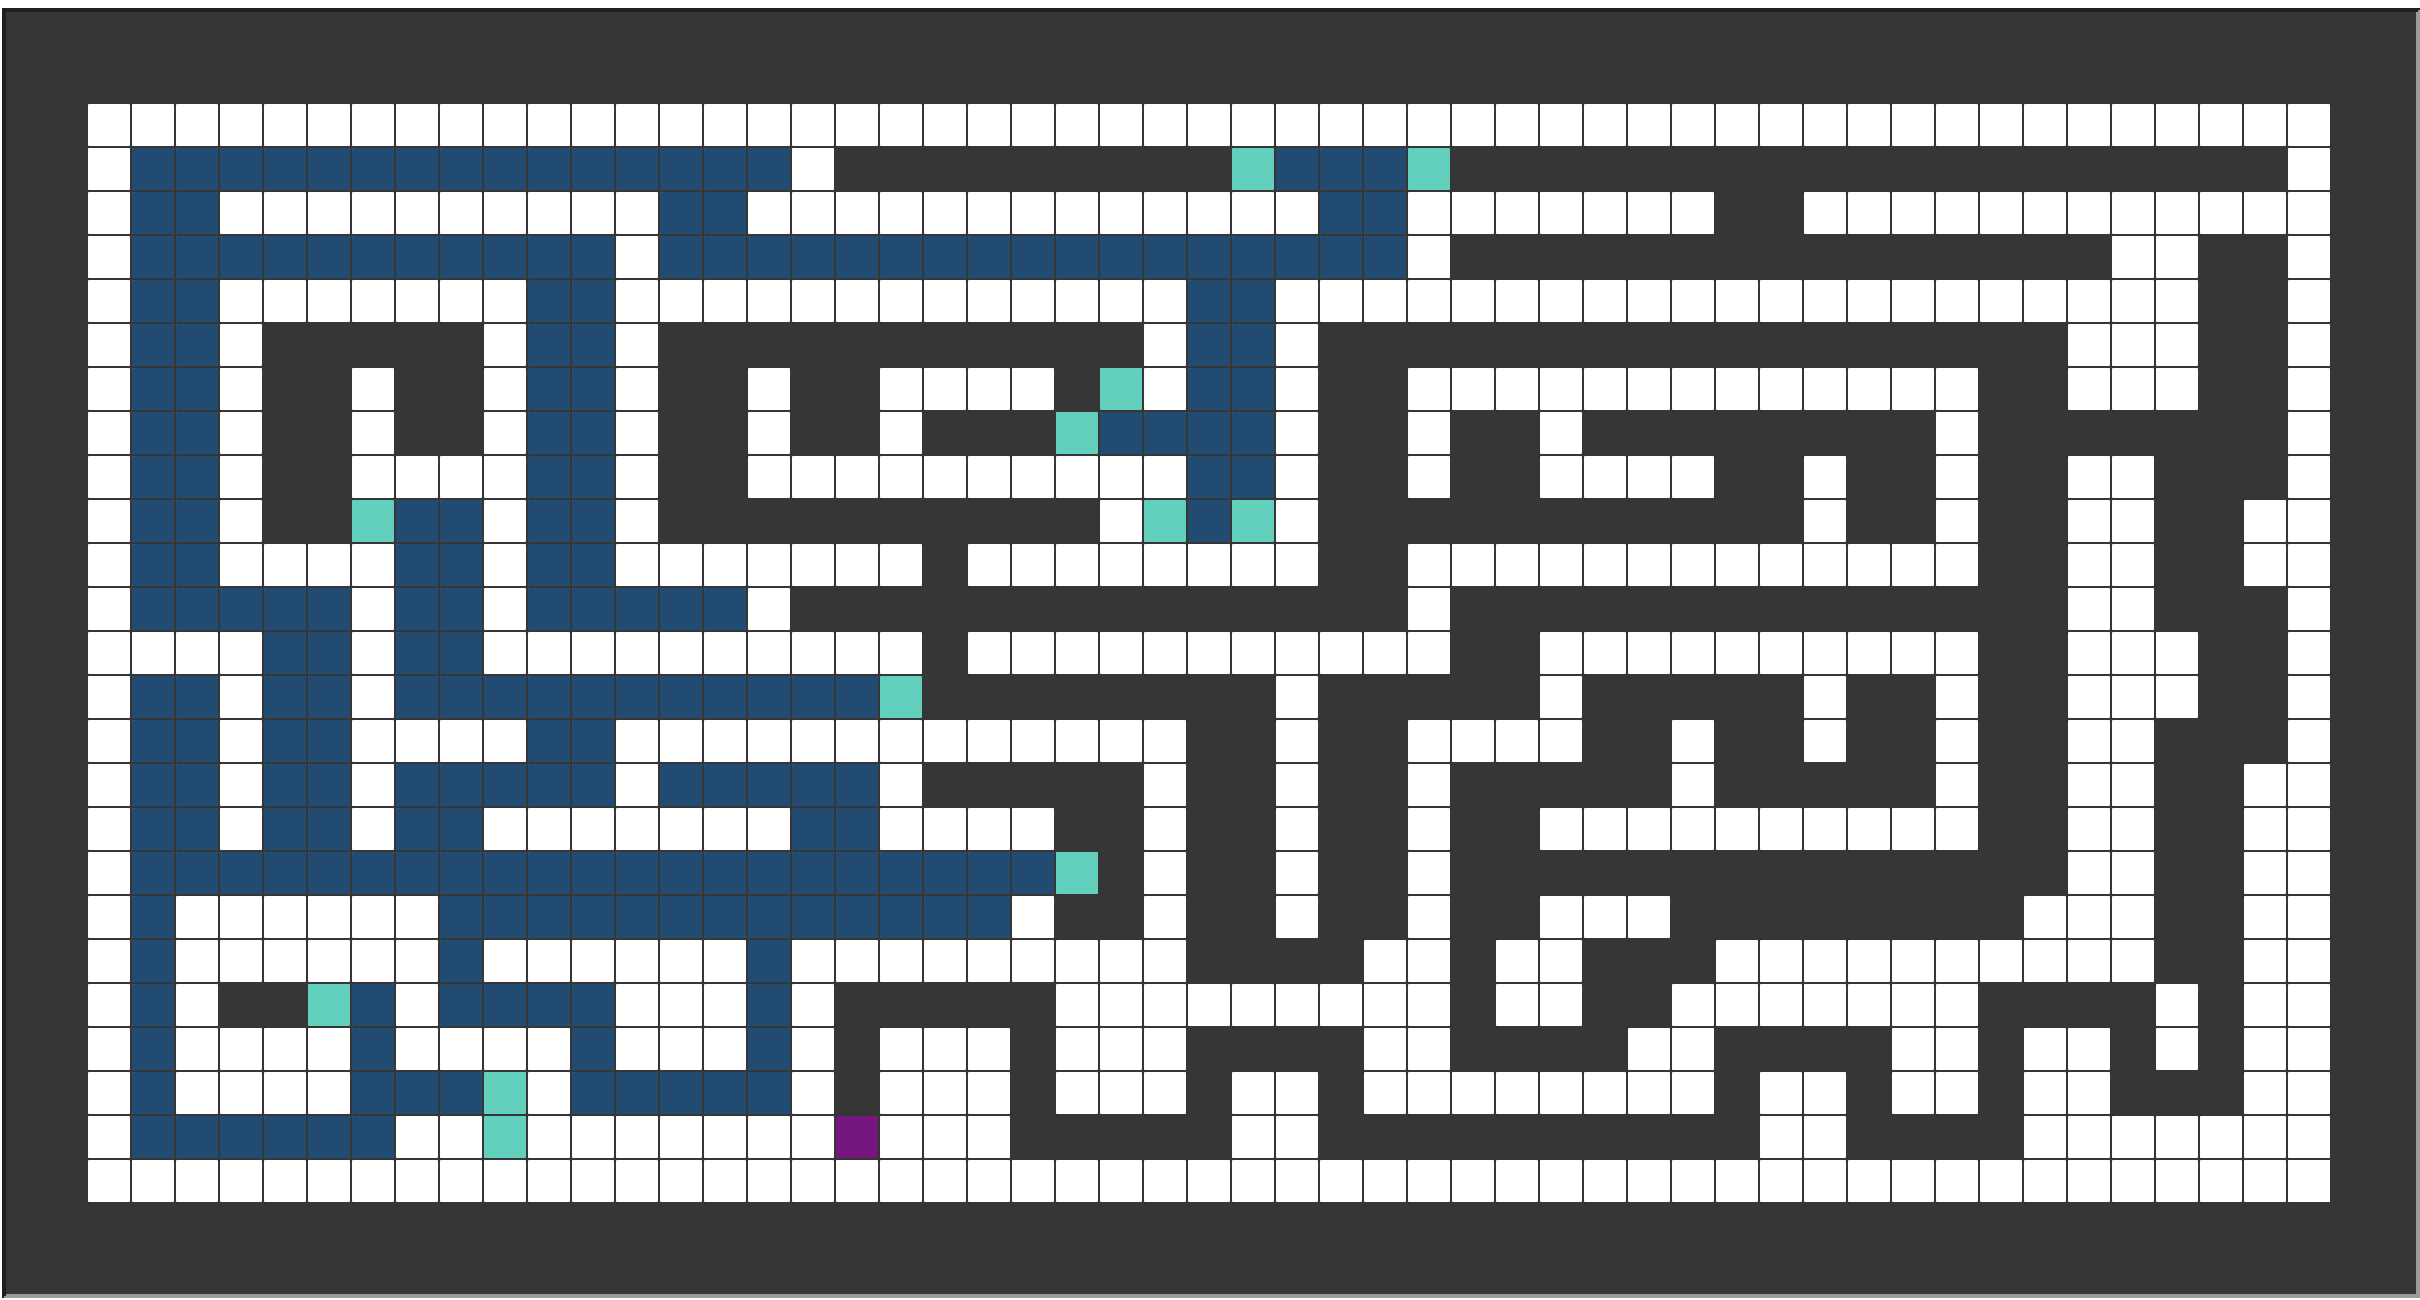
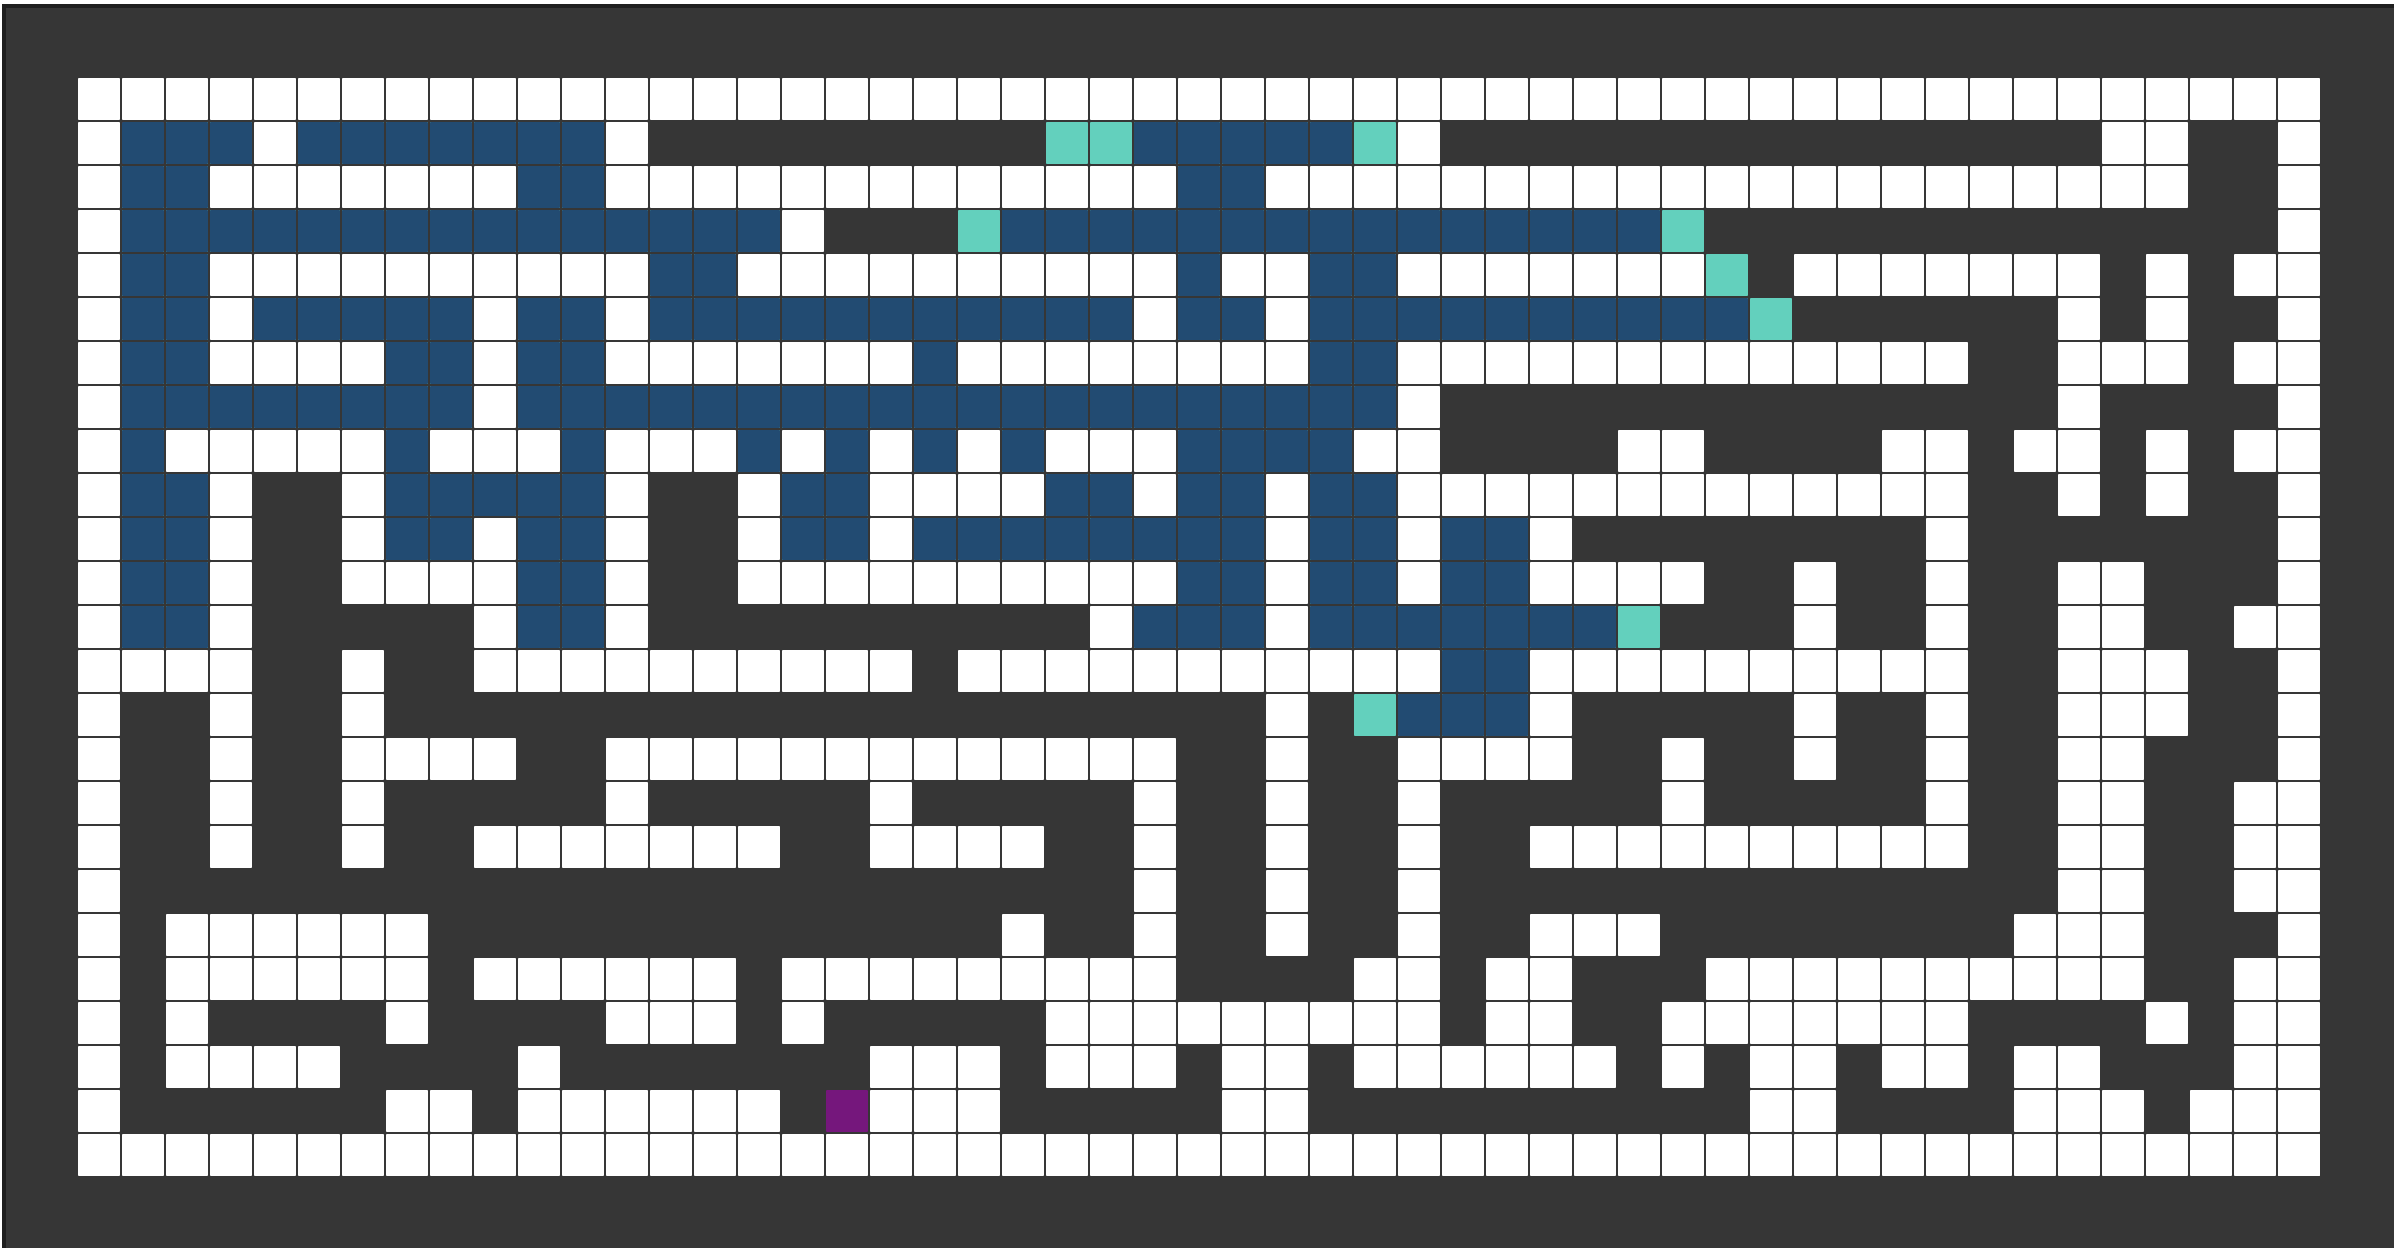
Change Puzzle Layout

diff --git a/simple_maze_solver.py b/simple_maze_solver.py
@@ -47,29 +47,29 @@ class Red(turtle.Turtle):
 
 grid = [
     "+++++++++++++++++++++++++++++++++++++++++++++++++++",
-    "+               +                                 +",
-    "+  ++++++++++  +++++++++++++  +++++++  ++++++++++++",
-    "+s          +                 +               ++  +",
+    "+s  +       +                 +               ++  +",
     "+  +++++++  +++++++++++++  +++++++++++++++++++++  +",
-    "+  +     +  +           +  +                 +++  +",
-    "+  +  +  +  +  +  ++++  +  +  +++++++++++++  +++  +",
+    "+               +                                 +",
+    "+  ++++++++++  ++++++++++ ++  +++++++  +++++++ + ++",
+    "+  +     +  +           +  +                 + +  +",
+    "+  ++++  +  +++++++ ++++++++  +++++++++++++  +++ ++",
+    "+        +                    +              +    +",
+    "+ +++++ +++ +++ + + + +++    ++    ++    ++ ++ + ++",
+    "+  +  +     +  +  ++++  +  +  +++++++++++++  + +  +",
     "+  +  +  +  +  +  +        +  +  +        +       +",
     "+  +  ++++  +  ++++++++++  +  +  ++++  +  +  ++   +",
     "+  +     +  +          +   +           +  +  ++  ++",
-    "+  ++++  +  +++++++ ++++++++  +++++++++++++  ++  ++",
-    "+     +  +     +              +              ++   +",
     "++++  +  ++++++++++ +++++++++++  ++++++++++  +++  +",
     "+  +  +                    +     +     +  +  +++  +",
     "+  +  ++++  +++++++++++++  +  ++++  +  +  +  ++   +",
     "+  +  +     +     +     +  +  +     +     +  ++  ++",
     "+  +  +  +++++++  ++++  +  +  +  ++++++++++  ++  ++",
     "+                       +  +  +              ++  ++",
-    "+ ++++++             +  +  +  +  +++        +++  ++",
+    "+ ++++++             +  +  +  +  +++        +++   +",
     "+ ++++++ ++++++ +++++++++    ++ ++   ++++++++++  ++",
     "+ +    +    +++ +     +++++++++ ++  +++++++    + ++",
-    "+ ++++ ++++ +++ + +++ +++    ++    ++    ++ ++ + ++",
-    "+ ++++    +     + +++ +++ ++ ++++++++ ++ ++ ++   ++",
-    "+      ++ +++++++e+++     ++          ++    +++++++",
+    "+ ++++    +       +++ +++ ++ ++++++ + ++ ++ ++   ++",
+    "+      ++ ++++++ e+++     ++          ++    +++ +++",
     "+++++++++++++++++++++++++++++++++++++++++++++++++++",
 ]
 
